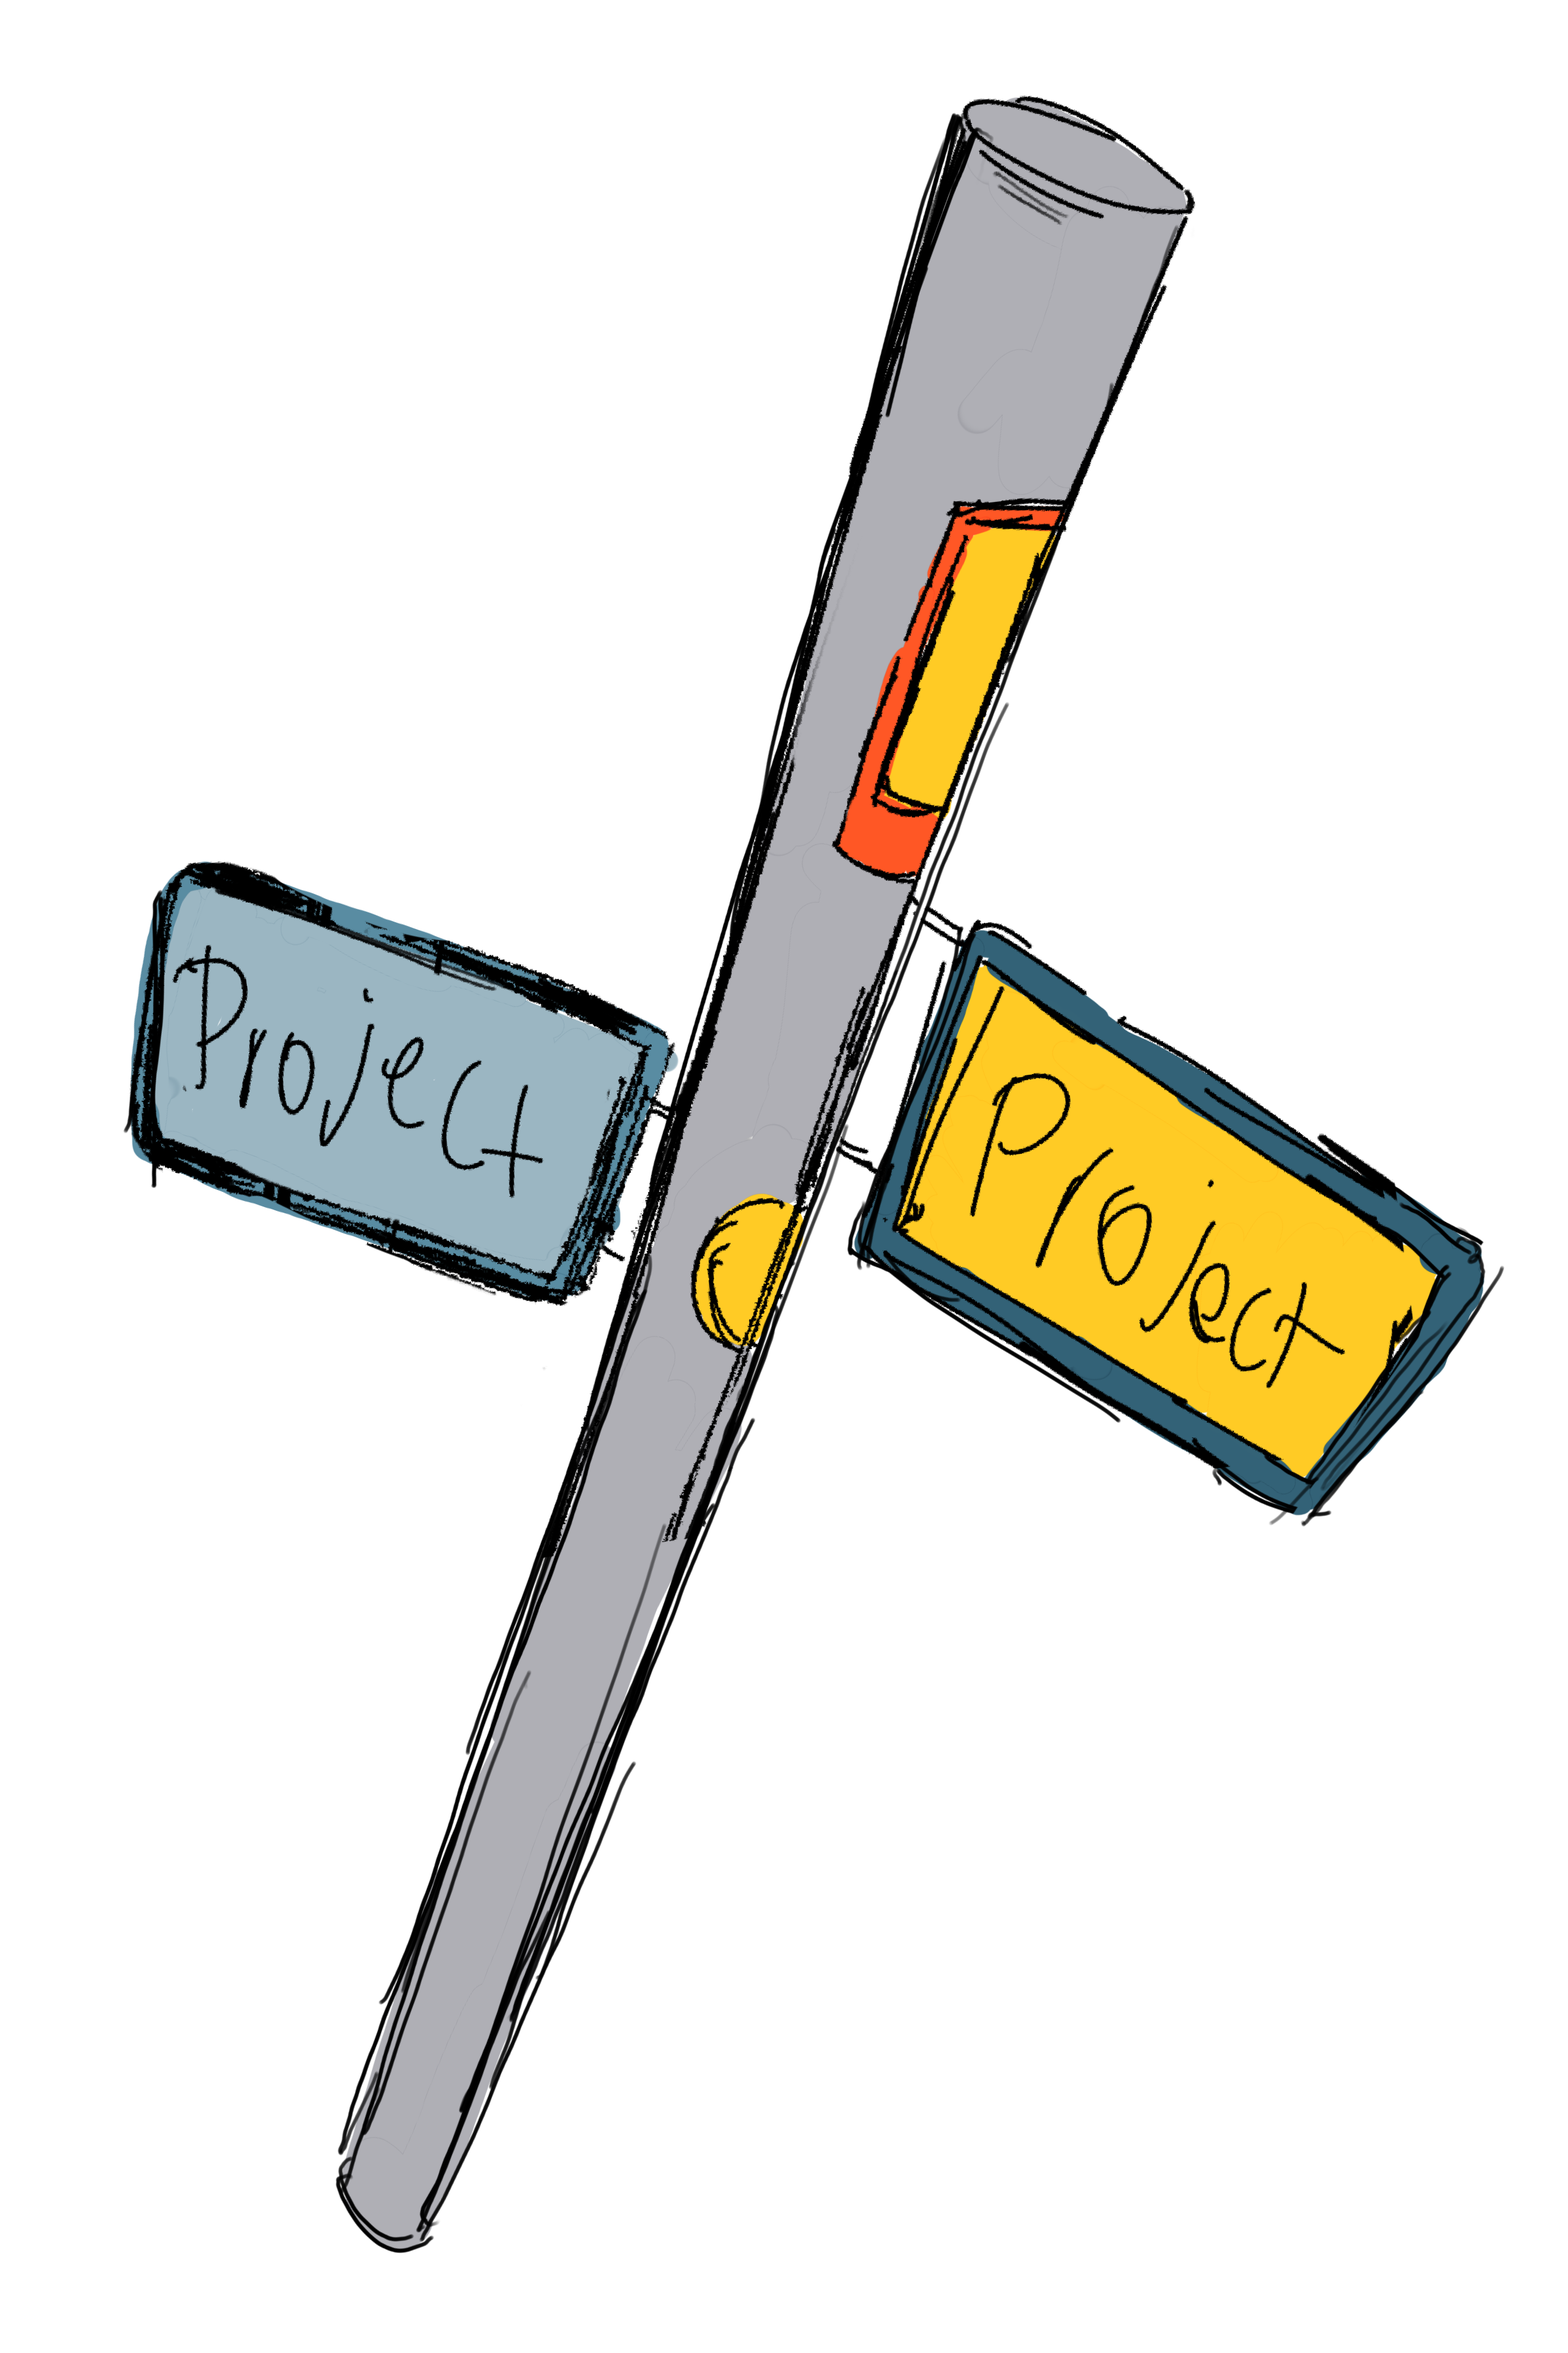
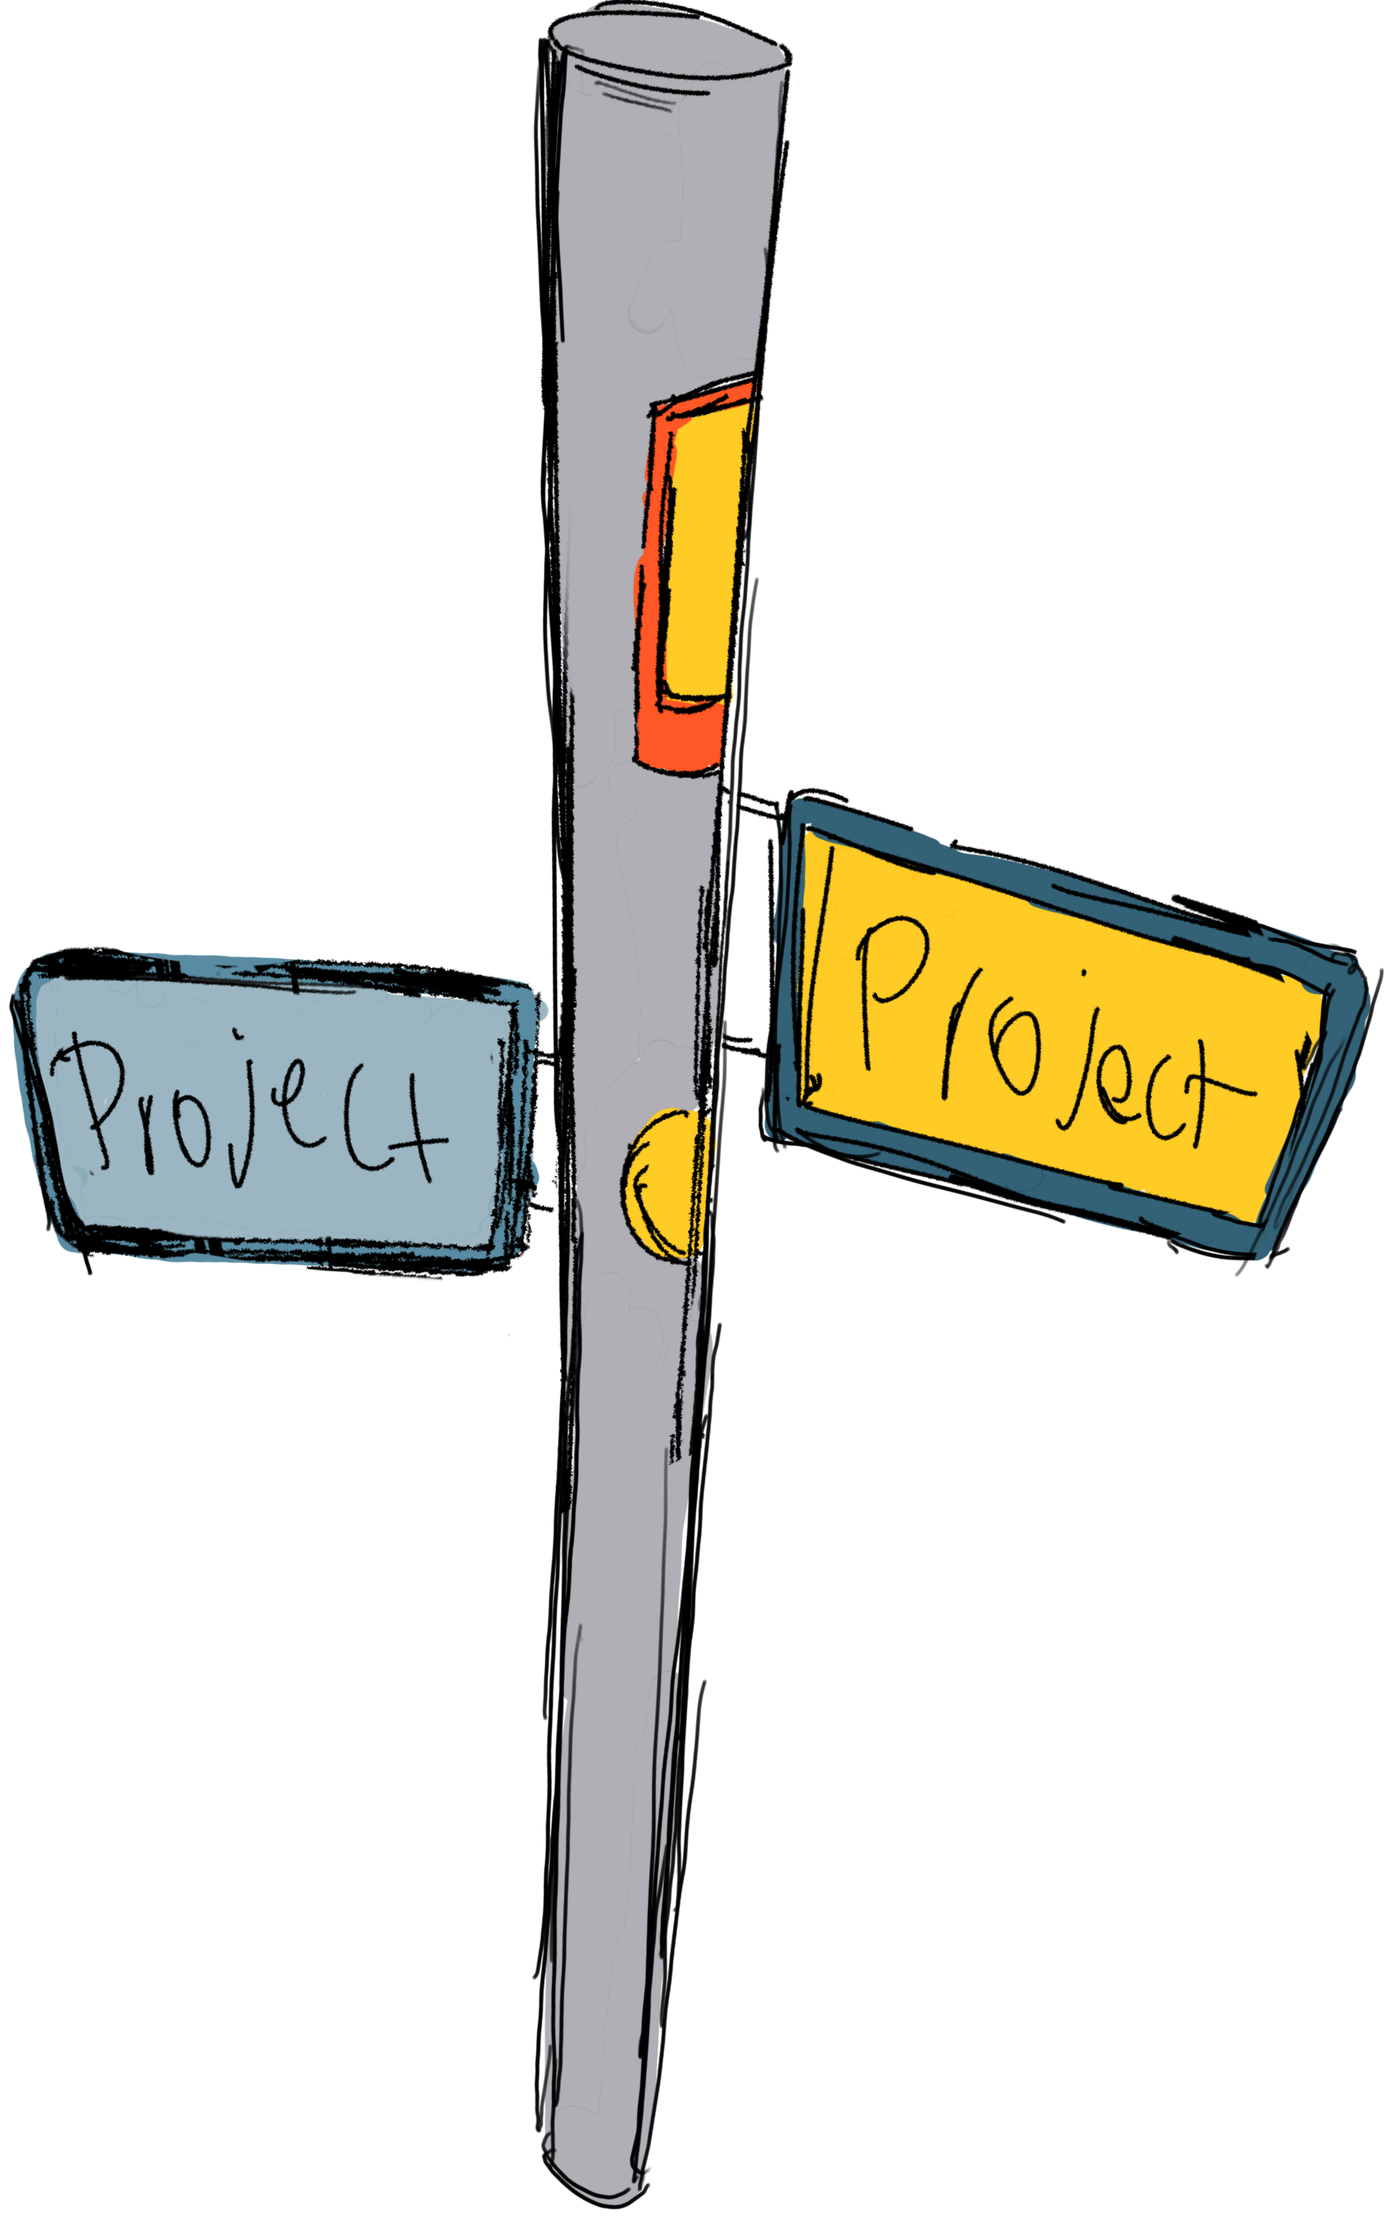
fixed pointer events, made mapping clickable

diff --git a/index.html b/index.html
@@ -1,59 +1,84 @@
 <!DOCTYPE html>
 <html lang="en">
-
-<head>
-    <meta charset="UTF-8">
-    <meta name="viewport" content="width=device-width, initial-scale=1.0">
+  <head>
+    <meta charset="UTF-8" />
+    <meta name="viewport" content="width=device-width, initial-scale=1.0" />
     <title>Homepage</title>
-    <link rel="stylesheet" href="homepage.css">
-</head>
-<body>
+    <link rel="stylesheet" href="homepage.css" />
+  </head>
+  <body>
     <main>
-        <img
-            src="Homepage_images/Background.png"
-            alt="background"
-            data-speedx="0.27" data-speedy="0.30" data-speedz="0" data-rotation="0" class=" parallax bg"
-        />
+        
+      <img
+        src="Homepage_images/Background.png"
+        alt="background"
+        data-speedx="0.27"
+        data-speedy="0.30"
+        data-speedz="0"
+        data-rotation="0"
+        class="parallax bg"
+      />
 
+      <div class="double-wrapper">
         <img
-            src="Homepage_images/stop.png"
-            alt="stopsign" usemap="#place"
-            data-speedx="0.25" data-speedy="0.28" data-speedz="0.25" data-rotation="0.3" class="parallax stop"
+          src="Homepage_images/double.png"
+          alt="doubelsign"
+          data-speedx="0.15"
+          data-speedy="0.22"
+          data-speedz="0.35"
+          data-rotation="0.45"
+          class="parallax double"
         />
-        <map name="place">
-            <!-- <area shape="rect" coords="34,44,270,350" alt="Computer" href="computer.htm" style="color: blue;"> -->
-            <area shape="poly" href="something.html" coords="660,1055,979,1128,1191,1424,1097,1855,762,2073,431,1985,243,1676,328,1272">
-            <!-- <area shape="poly"  href="croissant.htm" coords="140,121,181,116,204,160,204,222,191,270,140,329,85,355,58,352,37,322,40,259,103,161,128,147"> -->
-        </map>
-        <img
-            src="Homepage_images/double.png"
-            alt="doubelsign"
-            data-speedx="0.15" data-speedy="0.22" data-speedz="0.35" data-rotation="0.45" class="parallax double"
-        />
+      </div>
 
+      <div class="triangle-wrapper">
         <img
-            src="Homepage_images/triangle.png"
-            alt="triganglesign"
-            data-speedx="0.10" data-speedy="0.16" data-speedz="0.52" data-rotation="0.5" class=" parallax triangle"
+          src="Homepage_images/triangle.png"
+          alt="triganglesign"
+          data-speedx="0.10"
+          data-speedy="0.16"
+          data-speedz="0.52"
+          data-rotation="0.5"
+          class="parallax triangle"
         />
+      </div>
 
-        <div class="parallax"> 
-            <div class="text parallax">
-                <h2>portfolio</h2>
-            </div>
+      <div class="parallax">
+        <div class="text parallax">
+          <h2>portfolio</h2>
         </div>
+      </div>
 
+    <div class="stop-wrapper">
+      <img
+        src="Homepage_images/stop.png"
+        alt="stopsign"
+        usemap="#place"
+        data-speedx="0.25"
+        data-speedy="0.28"
+        data-speedz="0.25"
+        data-rotation="0.3"
+        class="parallax stop"
+      />
+    </div>
+
+      <map name="place" class="hexagon">
+        <area
+          href="something.html"
+          coords="312,1076,638,1090,897,1337,891,1776,603,2048,261,2022,18,1763,28,1341"
+          shape="poly"
+        />
+      </map>
 
     </main>
-    
+
     <script src="https://ajax.googleapis.com/ajax/libs/jquery/1.10.2/jquery.min.js"></script>
     <script src="./addons/imageMapResizer.min.js"></script>
     <script>
-        $(document).ready(function() {
-            $('map').imageMapResize();
-        });
-        </script>
+      $(document).ready(function () {
+        $("map").imageMapResize();
+      });
+    </script>
     <script src="homepage.js"></script>
-</body>
-
+  </body>
 </html>

diff --git a/homepage.css b/homepage.css
@@ -48,29 +48,61 @@ main{
     z-index: 1;
 }
 
+.stop-wrapper {
+    position: absolute; 
+    width: 36.08%;
+    top: 63.66%;
+    left: 43.3%;
+    z-index: 3;
+    transform: rotate(10deg);
+    transform-origin: center center;
+}
+
 .stop{
-    z-index: 9999;
-    position:absolute;
-    width: 52.08%;
-    top: 38.9%;
-    left: 50.52%;
+    width: 100%;
+    height: auto;
+    position: relative;
     z-index: 2;
 }
 
-.double{
-    position:absolute;
-    width: 54.68%;
-    top: 68.51%;
-    left: 71.35%;
-    z-index: 4;
+.double-wrapper {
+    position: absolute; 
+    width: 40.08%;
+    top: 82.66%;
+    left: 64.3%;
+    z-index: 3;
+    transform: rotate(30deg);
+    transform-origin: center center;
 }
 
-.triangle{
-    position:absolute;
-    width: 52.08%;
-    top: 91.66%;
-    left: 32.3%;
+.double{
+    width: 100%;
+    height: auto;
+    position: relative;
     z-index: 4;
+    pointer-events: auto;
+}
+
+.triangle-wrapper {
+    position: absolute; 
+    width: 28.08%;
+    top: 74.66%;
+    left: 36.3%;
+    z-index: 3;
+    transform: rotate(-30deg);
+    transform-origin: center center;
+}
+
+.triangle {
+    width: 100%;
+    height: auto;
+    position: relative;
+    z-index: 1;
+}
+
+.hexagon{
+    pointer-events: all;
+    z-index: 10;
 }
 
 .text{

diff --git a/homepage.js b/homepage.js
@@ -20,7 +20,7 @@ function update(CursorPosition) {
 
         el.style.transform = 
         `translateX(calc(-50% + ${-xValue * speedx}px)) 
-        translateY(calc(-50% + ${yValue * speedy}px)) 
+        translateY(calc(-50% + ${-yValue * speedy}px)) 
         perspective(2300px) translateZ(${-zValue * speedz}px)
         rotateY(${rotateDegree * rotateSpeed}deg)`;
     });
